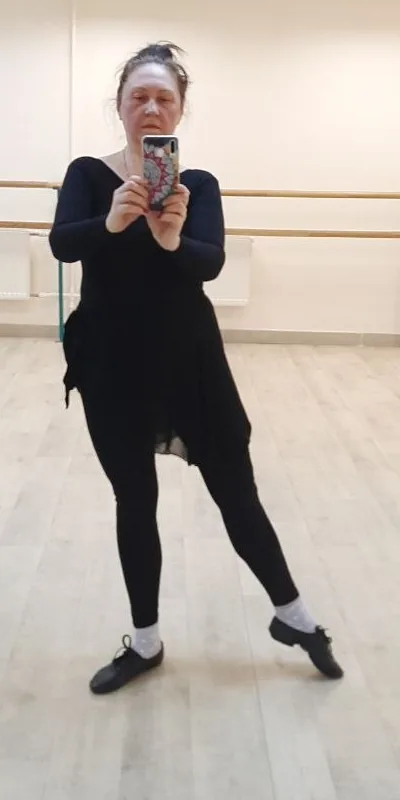
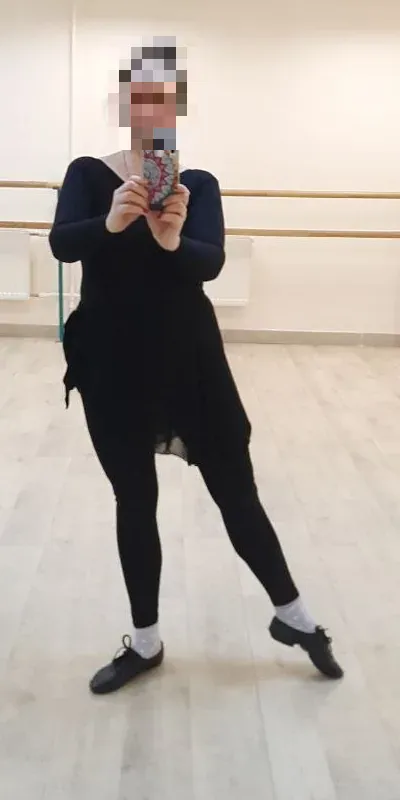
Mosaic participant faces on the before/after rail, drop names from filenames
A photograph published with a participant's consent to show a RESULT
is not consent to be recognised by a colleague scrolling past, and the
consent line under the rail can't answer that after the fact. Faces on
the four before/after photographs (the fifth pair is shot from behind
and has none) are now pixel-mosaicked into the file itself rather than
hidden behind a CSS overlay, which would still ship the face to
anyone who opens the network tab.

scripts/img/face-mosaic.mjs is the re-runnable derivation: a manifest
of face boxes as fractions of the frame (survives a re-crop instead of
silently pointing at the wrong pixels), eight mosaic blocks across each
face, ICC profile carried over from the source (this project has
already paid once for an untagged-webp colour seam on iOS), EXIF
stripped. Re-encoded at q80 after q90 bloated the files 15-22% for no
visible gain at rail-card size — all four now ship lighter than the
untouched originals.

Also renamed ba-lyuba-2021-*.webp to ba-2021-*.webp (in an earlier
commit on this branch) and closed the naming convention that caused
it: the publishing instructions in way21/index.html no longer have a
slot for a participant's name, because a filename is a URL and
survives whatever the picture itself has been through.

Changed region(s): [[0.27, 0.0312, 0.48, 0.1875]]

diff --git a/docs/offer-landing-and-proof-rails-2026-09-02.md b/docs/offer-landing-and-proof-rails-2026-09-02.md
@@ -131,7 +131,7 @@ than the page — see the colour-seam note in the DS docs).
 | card | files | note |
 | --- | --- | --- |
 | glued pair | `ba-2026-06-back.webp` | already one JPEG, side by side. Renders through `.ba-pair--single`: one cell, no `до`/`після` tags drawn over somebody else's composition, and the picture is CONTAINED in the same 4:3 frame the two-cell pair adds up to. Every card is the same size — 420×377 desktop, 330×329 phone — because a glued 1:1 photo given its own proportions made one card twice as tall as its neighbours and the rail lost its rhythm. |
-| Люба | `ba-lyuba-2021-before/after.webp` | two photographs, both full-body. Which one is «до» was inferred from the pictures, not from the filenames — confirm. |
+| 2021 pair | `ba-2021-before/after.webp` | two photographs, both full-body. Which one is «до» was inferred from the pictures, not from the filenames — confirm. Renamed 2026-09-05: the files used to carry the participant's first name, which a filename publishes in the network tab no matter what the picture itself has been through. |
 | studio | `ba-2026-06-studio-before/after.webp` | **the weak one.** «До» is a seated close-up at 296px wide, «після» is a full-body shot across a dance studio. Different distance, different framing, and the source is too small to fix by cropping. |
 
 `.ba-shot img` is 2:3, not 3:4: every real photograph in this set is a standing
